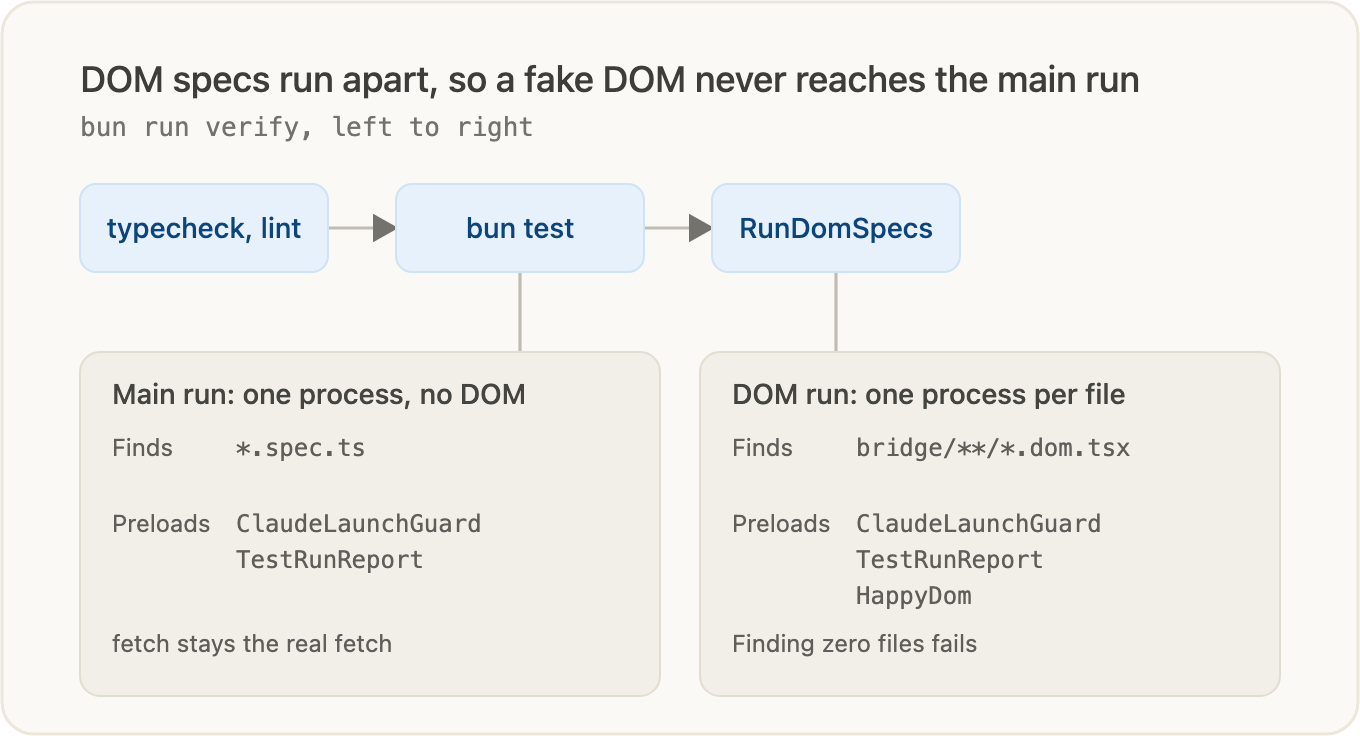
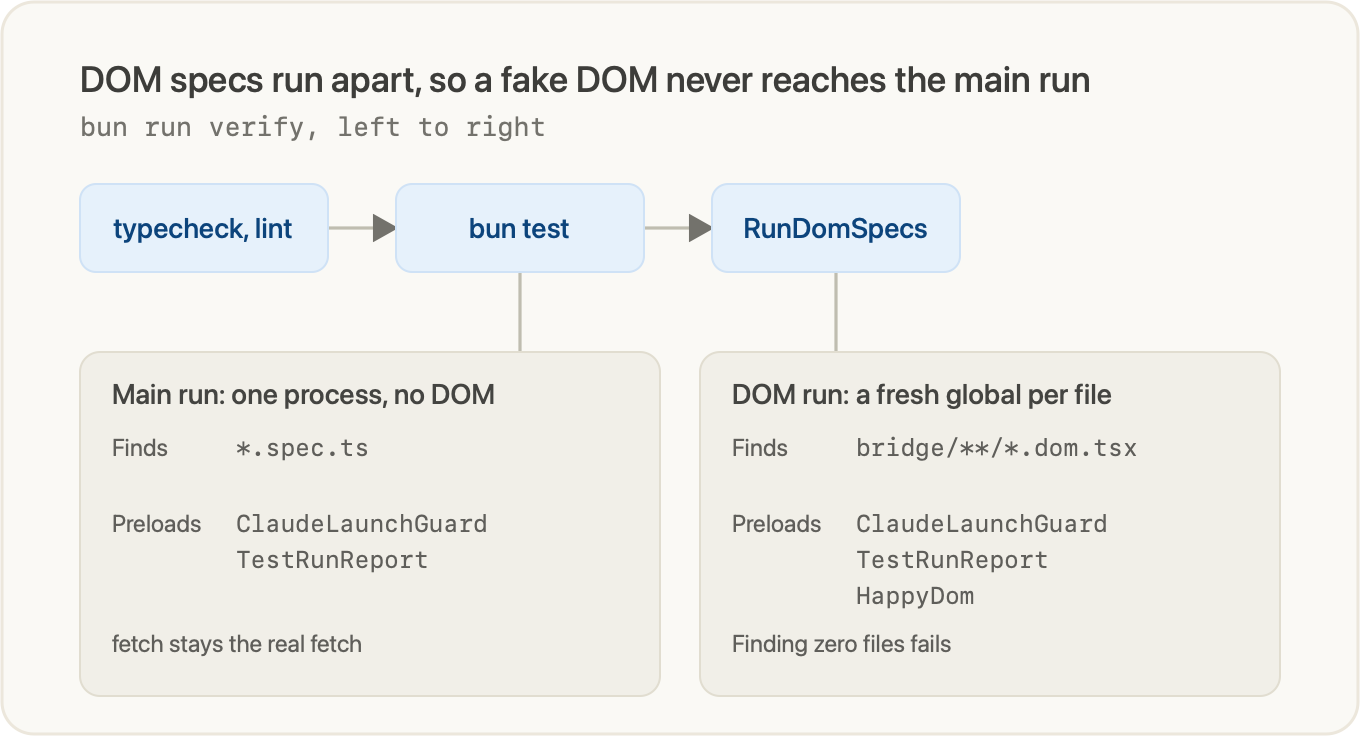
Run the Bridge DOM specs in one isolated run instead of one process per file

diff --git a/bridge/testing/RunDomSpecs.ts b/bridge/testing/RunDomSpecs.ts
@@ -1,7 +1,7 @@
 /**
- * Runs every Bridge DOM spec, `bridge/**\/*.dom.tsx`, which `bun test` does not discover: each in a run of its own under the skip report
- * and the happy-dom preload, so a DOM never leaks into the main run or from one spec into the next. Finding no DOM spec is a failure, so
- * a renamed folder cannot pass by running nothing. `bun run verify` runs it after `bun test`.
+ * Runs every Bridge DOM spec, `bridge/**\/*.dom.tsx`, which `bun test` does not discover: in one isolated run under the skip report and
+ * the happy-dom preload, each file in a fresh global, so a DOM never leaks into the main run or from one spec into the next. Finding no
+ * DOM spec is a failure, so a renamed folder cannot pass by running nothing. `bun run verify` runs it after `bun test`.
  */
 import { join } from 'node:path';
 
@@ -15,13 +15,8 @@ if (domSpecPaths.length === 0) {
   console.error(`No DOM spec matches ${DOM_SPEC_PATTERN}.`);
   process.exitCode = 1;
 } else {
-  const failedPaths = domSpecPaths.filter((domSpecPath) => {
-    const preloadArguments = PRELOADS.flatMap((preload) => ['--preload', preload]);
-    const finished = Bun.spawnSync(['bun', 'test', ...preloadArguments, `./${domSpecPath}`], { cwd: REPOSITORY_ROOT, stdout: 'inherit', stderr: 'inherit' });
-    return finished.exitCode !== 0;
-  });
-  if (failedPaths.length > 0) {
-    console.error(`DOM specs failed: ${failedPaths.join(', ')}`);
-    process.exitCode = 1;
-  }
+  const preloadArguments = PRELOADS.flatMap((preload) => ['--preload', preload]);
+  const specArguments = domSpecPaths.map((domSpecPath) => `./${domSpecPath}`);
+  const finished = Bun.spawnSync(['bun', 'test', '--isolate', ...preloadArguments, ...specArguments], { cwd: REPOSITORY_ROOT, stdout: 'inherit', stderr: 'inherit' });
+  if (finished.exitCode !== 0) process.exitCode = 1;
 }

diff --git a/docs/development/guards-and-testing.md b/docs/development/guards-and-testing.md
@@ -565,7 +565,7 @@ this way with no vendor involved. The switch is `FAKE_AGENT_VARIABLE`.
 **DOM specs.** `bun test` never runs a `.dom.tsx`: its pattern does not match the name, and
 `src/TestFileConventions.spec.ts` bans a `.spec.tsx`, which it would match and run without a DOM.
 
-![The stages of bun run verify in a row: typecheck and lint side by side, bun test, RunDomSpecs. Below bun test, the main run finds spec files in one process with the claude guard and the skip report preloaded. Below RunDomSpecs, the DOM run finds bridge dom files, one process per file, with HappyDom added, and fails on finding none.](../figures/guards-and-testing/two-test-runs.png)
+![The stages of bun run verify in a row: typecheck and lint side by side, bun test, RunDomSpecs. Below bun test, the main run finds spec files in one process with the claude guard and the skip report preloaded. Below RunDomSpecs, the DOM run finds bridge dom files and runs them in one isolated process, a fresh global per file, with HappyDom added, and fails on finding none.](../figures/guards-and-testing/two-test-runs.png)
 
 *`HappyDom` replaces `fetch` and other globals for a whole run, so it is never a preload of the main run.*
 

diff --git a/docs/development/contributing.md b/docs/development/contributing.md
@@ -194,7 +194,7 @@ each `tsc` project in a process of its own; the test files themselves never run 
 | 1 Type-check and lint | `bun run typecheck`, `bun run lint` | `tsc` over `tsconfig.json`, `bridge/tsconfig.json` and `bridge/tsconfig.spec.json`; ESLint over the repository. | 14 s |
 | 2 Tests | `bun test` | Every `.spec.ts`, under the preloads in `bunfig.toml`. | 15 min |
 | 3 Stamp check | `bun src/testing/CheckRecordingStamps.ts` | No recording is stale for the installed system versions. | 1 s |
-| 4 DOM specs | `bun bridge/testing/RunDomSpecs.ts` | Each `.dom.tsx` in a run of its own under happy-dom. | 5 s |
+| 4 DOM specs | `bun bridge/testing/RunDomSpecs.ts` | Every `.dom.tsx` in one isolated run under happy-dom, each file in a fresh global. | 5 s |
 
 `tsc` keeps its build info in the git-ignored `node_modules/.cache/typecheck/`, so a later type-check reads again only
 what changed. ESLint keeps no cache: `import/no-extraneous-dependencies` reads `package.json`, which a cache never
